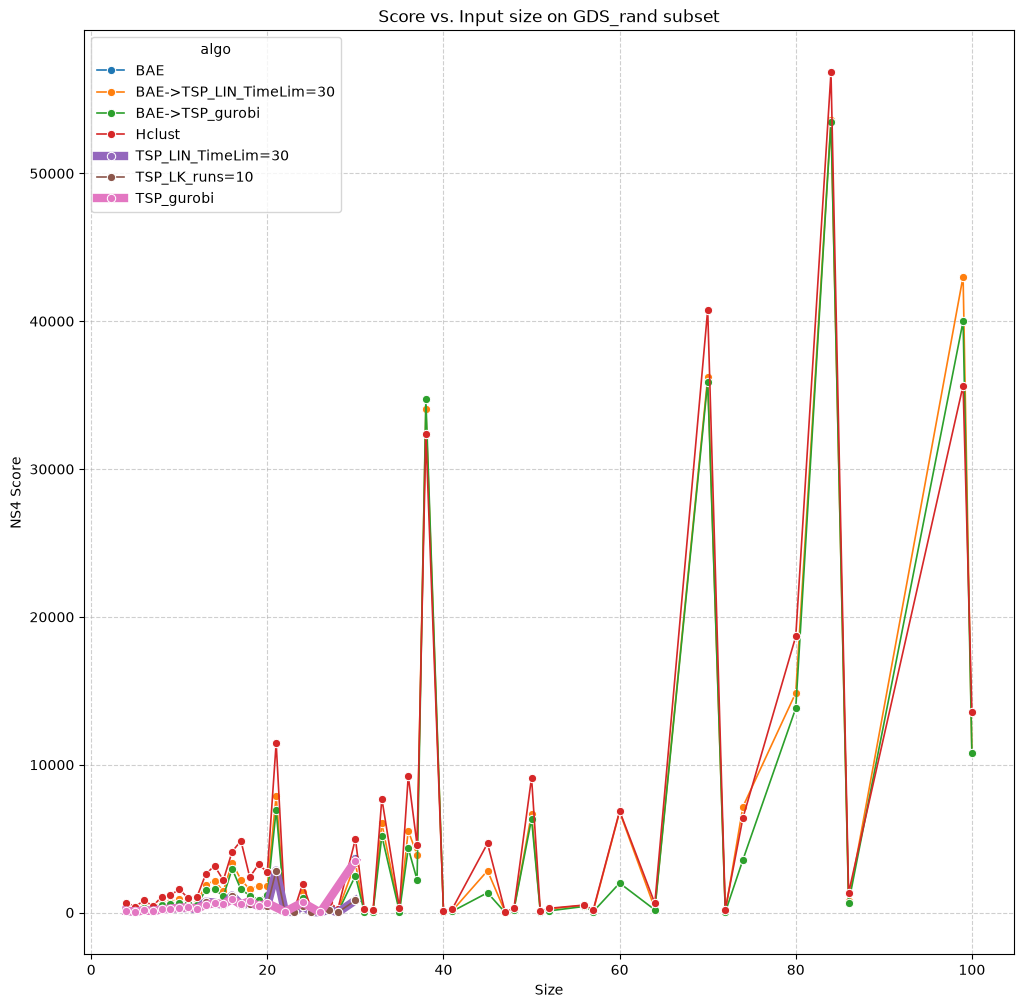
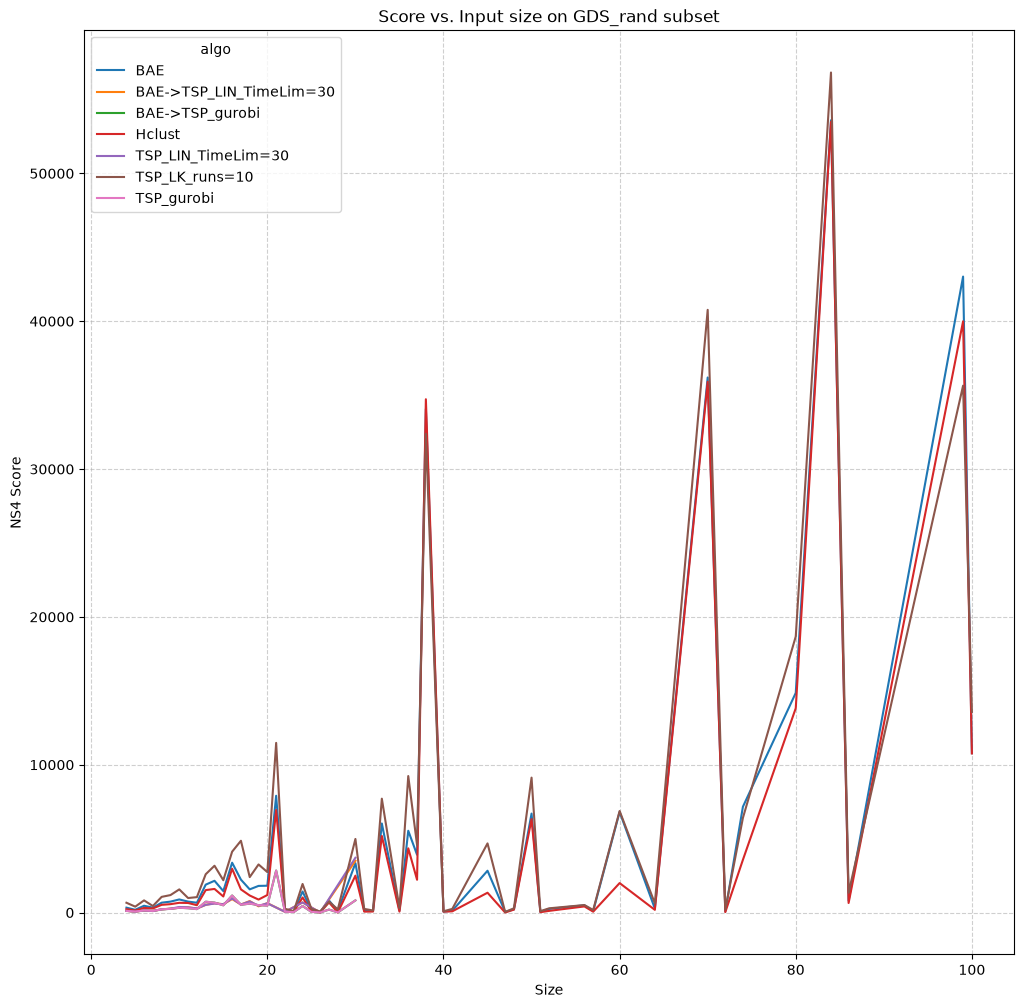
fixed image legend

diff --git a/Visualizations/vis.py b/Visualizations/vis.py
@@ -43,9 +43,9 @@ def tm_vs_score(df, title='', only_small=True):
     plt.show()
 
 df = read()
-tm_vs_score(df)
-tm_vs_score(df[df['dataset']=='Random'], title=' on Random Subset')
-tm_vs_score(df[df['dataset']=='GDS_rand'], title=' on GDS_Rand Subset')
+#tm_vs_score(df)
+#tm_vs_score(df[df['dataset']=='Random'], title=' on Random Subset')
+#tm_vs_score(df[df['dataset']=='GDS_rand'], title=' on GDS_Rand Subset')
 #tm_vs_score(df[df['dataset']=='SparseMatrixSuite'], title='SparseMatrixSuite')
 
 def size_vs_col(df, col='time', only_small=False, title_addon=''):
@@ -64,7 +64,7 @@ def size_vs_col(df, col='time', only_small=False, title_addon=''):
     size_map = {algo: 6.0 if algo == 'TSP_gurobi' or algo == 'TSP_LIN_TimeLim=30' else 1.2 for algo in df['algo'].cat.categories}
     print(size_map)
     plt.figure(figsize=(12, 12))
-    sns.lineplot(data=df, x="n", y=col, hue="algo", marker="o", size='algo', errorbar=None, sizes=size_map)
+    sns.lineplot(data=df, x="n", y=col, hue="algo", errorbar=None)
 
     plt.xlabel("Size")
     plt.ylabel(ylabel)
@@ -73,7 +73,7 @@ def size_vs_col(df, col='time', only_small=False, title_addon=''):
     plt.savefig(f"./Results/{title.replace(' ', '_')}.png", bbox_inches='tight')
     plt.show()
 
-"""data = df
+data = df
 
 size_vs_col(
     df[df['algo'] != 'BAE->Hclust'][df['algo'] != 'Random_swaps_Tries=500_Temp=0.0_Cooling=0.0_NumIter=50000'][df['algo'] != 'Mirror_Tries=500_Temp=0.0_Cooling=0.0_NumIter=50000'][df['algo'] != 'Block_Swaps_Tries=500_Temp=0.0_Cooling=0.0_NumIter=50000'],
@@ -111,4 +111,4 @@ size_vs_col(
     df[df['algo'] != 'BAE->Hclust'][df['algo'] != 'Random_swaps_Tries=500_Temp=0.0_Cooling=0.0_NumIter=50000'][df['algo'] != 'Mirror_Tries=500_Temp=0.0_Cooling=0.0_NumIter=50000'][df['algo'] != 'Block_Swaps_Tries=500_Temp=0.0_Cooling=0.0_NumIter=50000'],
     col='time',
     title_addon=' on GDS_rand subset'
-    )"""
+    )
